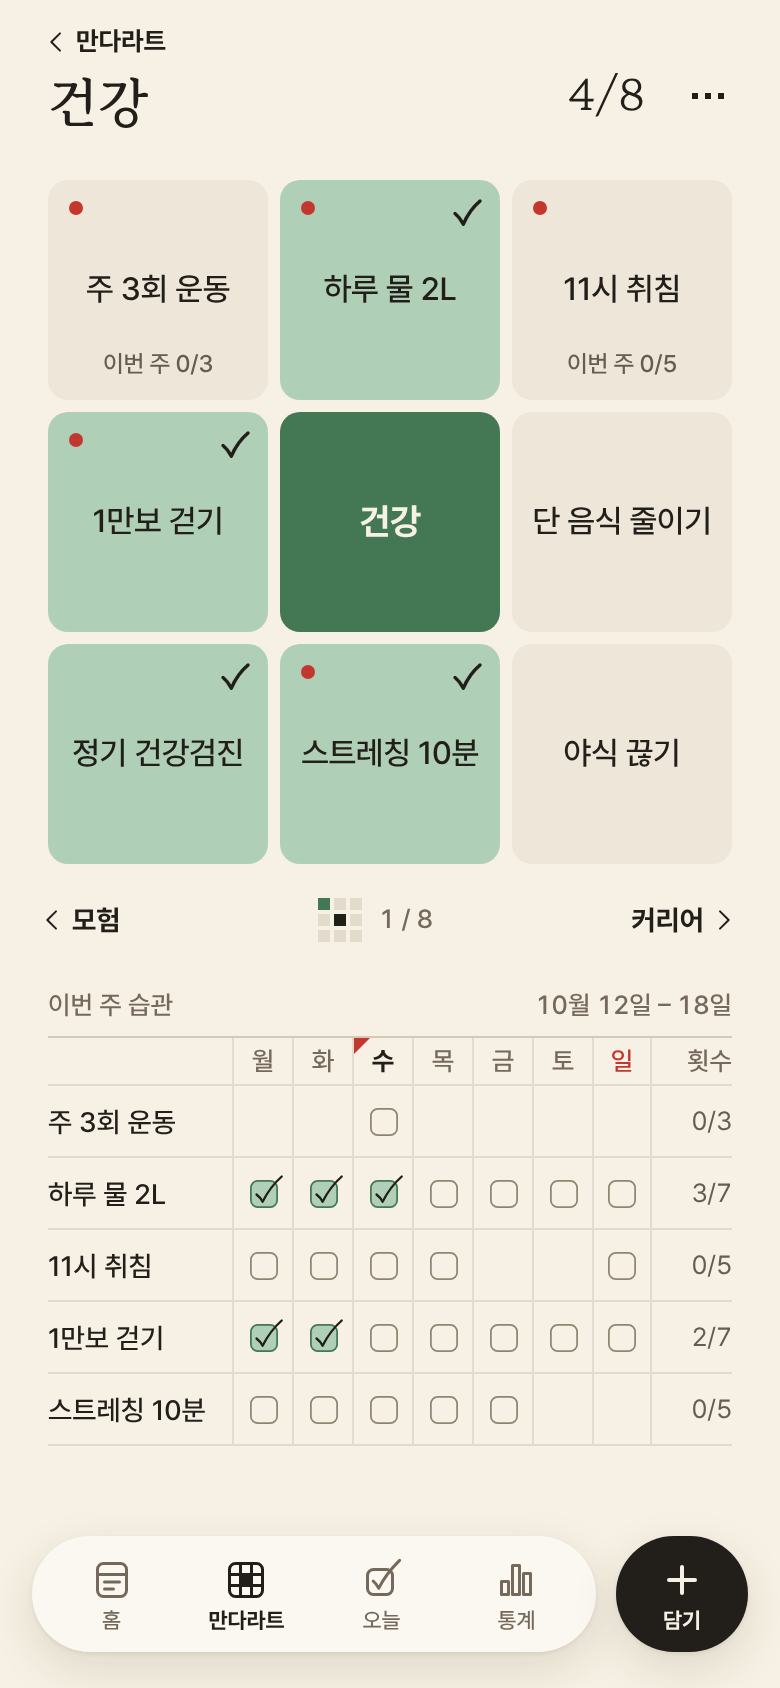
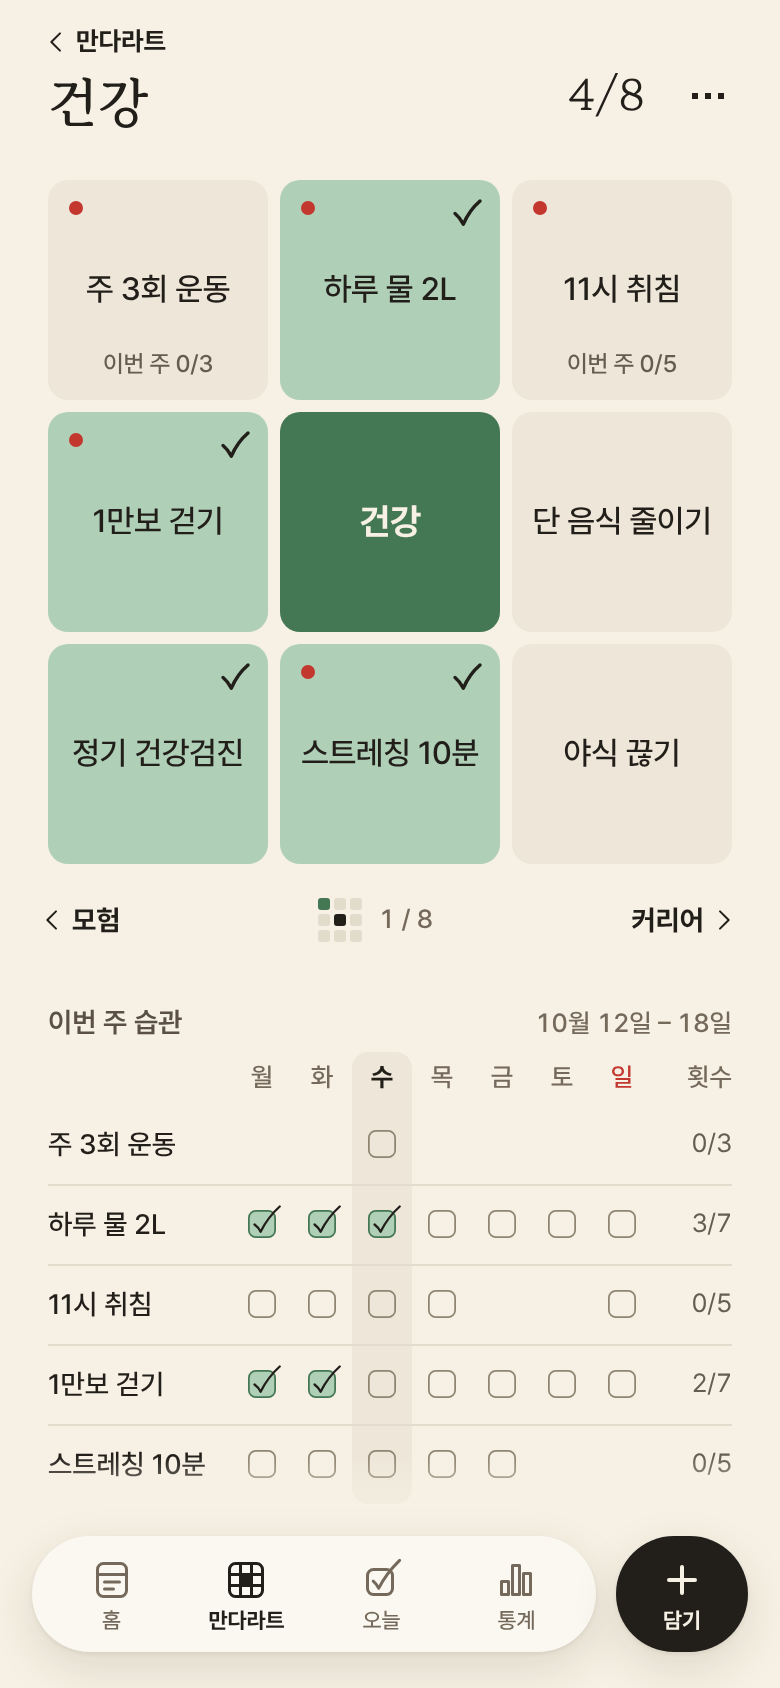
Design upgrade: soften Home, Today and the block tracker
No rules under the hero figures or on top of lists, plain section
names, and the block's week tracker without boxes, with today's column
as a soft tint.

Claude-Session: https://claude.ai/code/session_016yGBuAcG4VRj4TxWfirsD3

diff --git a/docs/design/mockups/a/block.html b/docs/design/mockups/a/block.html
@@ -20,20 +20,19 @@
   .pager-where { display: flex; align-items: center; gap: 8px; }
 
   /* the week tracker: booktabs. 1pt rule on top, hairlines under rows, no boxes round it. */
-  .sec { margin-top: 12px; }
-  .wk { border-top: var(--rule) solid var(--print-mid); }
-  .wk-row { display: grid; grid-template-columns: 1fr repeat(7, 30px) 40px; align-items: center; height: 36px; border-bottom: var(--hair) solid var(--print-rule); }
-  .wk-row.is-head { height: 24px; }
+  .sec { margin-top: 20px; }
+  .wk { }
+  .wk-row { position: relative; display: grid; grid-template-columns: 1fr repeat(7, 30px) 40px; align-items: center; height: 40px; }
+  .wk-row + .wk-row:not(.is-first)::before { content: ''; position: absolute; left: 0; right: 0; top: 0; height: var(--hair); background: var(--print-rule); }
+  .wk-row.is-head { height: 26px; }
   .wk-row > * { display: flex; justify-content: center; align-items: center; height: 100%; position: relative; }
   .wk-row > .wk-name { justify-content: flex-start; font: 500 14px/18px var(--sans); color: var(--ink); white-space: nowrap; }
   .wk-row > .wk-fig { justify-content: flex-end; font: 400 13px/18px var(--sans); color: var(--ink-2); font-variant-numeric: tabular-nums; }
   .wk-row.is-head .t-label { line-height: 24px; }
-  /* the seven days are printed cells, as in the week strip on Home: hairlines between them */
-  .wk-row > .wk-d { border-left: var(--hair) solid var(--print-rule); }
-  .wk-row > .wk-d.is-last { border-right: var(--hair) solid var(--print-rule); }
+  /* the seven days are columns, not boxes; today's column is a soft tint behind the boxes */
   .wk-day.is-sunday .t-label { color: var(--signal); }
   .wk-day.is-today .t-label { color: var(--ink); font-weight: 700; }
-  .wk-day.is-today::before { content: ''; position: absolute; left: 0; top: 0; width: 8px; height: 8px; background: var(--signal); clip-path: polygon(0 0, 100% 0, 0 100%); }
+  .wk-today-col { position: absolute; top: 0; bottom: 0; width: 30px; border-radius: 8px; background: var(--tile); }
   /* every planned day has a printed box (3.3:1); a box left empty before today is a missed day,
      one after today is still to come. Days not planned have no box. */
   .cell-state { text-align: center; }
@@ -52,7 +51,7 @@
     </div>
 
     <section class="sec">
-      <div class="a-section"><span class="t-label">이번 주 습관</span><span class="t-label" id="range"></span></div>
+      <div class="a-section"><span class="t-label is-section">이번 주 습관</span><span class="t-label" id="range"></span></div>
       <div class="wk" id="wk"></div>
     </section>
   </div>
@@ -95,7 +94,7 @@ A.ready().then((doc) => {
   for (let b = 0; b < 9; b++) {
     const x = (b % 3) * (u + gap), y = Math.floor(b / 3) * (u + gap);
     const fill = b === 4 ? 'var(--core)' : b === (AREA < 4 ? AREA : AREA + 1) ? `var(--dye-${AREA + 1})` : 'var(--print-rule)';
-    m += `<rect x="${x}" y="${y}" width="${u}" height="${u}" style="fill:${fill}"/>`;
+    m += `<rect x="${x}" y="${y}" width="${u}" height="${u}" rx="1.5" style="fill:${fill}"/>`;
   }
   document.querySelector('#where').innerHTML = `<svg width="22" height="22" viewBox="0 0 22 22" style="display:block" aria-hidden="true">${m}</svg><span class="t-label">1 / 8</span>`;
 
@@ -109,12 +108,22 @@ A.ready().then((doc) => {
     if (c === 'o') return A.check({ size: 14 });
     return '';
   };
-  area.actions.filter((a) => a.kind === 'habit').forEach((a) => {
+  area.actions.filter((a) => a.kind === 'habit').forEach((a, n) => {
     const s = weekOf[a.text];
     const t = a.perWeek ? { done: 0, planned: a.perWeek } : tally(s);
-    html += `<div class="wk-row"><span class="wk-name">${a.text}</span>${[...s].map((c, i) => `<span class="wk-d${i === 6 ? ' is-last' : ''}">${mark(c)}</span>`).join('')}<span class="wk-fig">${t.done}/${t.planned}</span></div>`;
+    html += `<div class="wk-row${n === 0 ? ' is-first' : ''}"><span class="wk-name">${a.text}</span>${[...s].map((c, i) => `<span class="wk-d${i === 6 ? ' is-last' : ''}">${mark(c)}</span>`).join('')}<span class="wk-fig">${t.done}/${t.planned}</span></div>`;
   });
-  document.querySelector('#wk').innerHTML = html;
+  const wk = document.querySelector('#wk');
+  wk.innerHTML = html;
+  // today's column: one soft tint from the weekday letter down through every row
+  const t = wk.querySelector('.wk-day.is-today');
+  if (t) {
+    wk.style.position = 'relative';
+    const col = document.createElement('div');
+    col.className = 'wk-today-col';
+    col.style.left = t.offsetLeft + 'px';
+    wk.prepend(col);
+  }
 
   A.tabBar('#bar', { active: 'chart' });
 });

diff --git a/docs/design/mockups/a/home-dark.html b/docs/design/mockups/a/home-dark.html
@@ -12,11 +12,12 @@
   /* The goal is the title (34pt, written ink); the date is only the folio line above it.
      Hero: three filled-in fields on the gutter and the sheet in miniature on the right. The fields'
      top rule and last hairline register with the thumbnail's frame. */
-  .hero-row { display: flex; gap: 24px; margin-top: 12px; }
-  .hero-fields { flex: 1; display: flex; flex-direction: column; border-top: var(--rule) solid var(--print-mid); }
-  .hero-field { flex: 1; display: flex; flex-direction: column; justify-content: center; border-bottom: var(--hair) solid var(--print-rule); }
-  .sec { margin-top: 18px; }
-  .hero-row + .sec { margin-top: 24px; }
+  .hero-row { display: flex; gap: 24px; margin-top: 18px; }
+  .hero-fields { flex: 1; display: flex; flex-direction: column; justify-content: space-between; padding: 2px 0; }
+  .hero-field { display: flex; flex-direction: column; gap: 2px; }
+  .sec { margin-top: 30px; }
+  .hero-row + .sec { margin-top: 32px; }
+  .sec .a-section { margin-bottom: 4px; }
 </style>
 </head>
 <body>
@@ -33,17 +34,17 @@
     </div>
 
     <section class="sec">
-      <div class="a-section"><span class="t-label">오늘 할 일</span><span class="a-link" id="all"></span></div>
+      <div class="a-section"><span class="t-label is-section">오늘 할 일</span><span class="a-link" id="all"></span></div>
       <div class="a-list" id="rows"></div>
     </section>
 
     <section class="sec">
-      <div class="a-section"><span class="t-label" id="week-label"></span><span class="t-meta" id="week-total" style="color:var(--ink)"></span></div>
+      <div class="a-section"><span class="t-label is-section" id="week-label"></span><span class="t-meta" id="week-total" style="color:var(--ink)"></span></div>
       <div id="week"></div>
     </section>
 
     <section class="sec">
-      <div class="a-section"><span class="t-label">8개 영역</span></div>
+      <div class="a-section"><span class="t-label is-section">8개 영역</span></div>
       <div id="ledger"></div>
     </section>
   </div>

diff --git a/docs/design/mockups/a/home.html b/docs/design/mockups/a/home.html
@@ -11,11 +11,12 @@
   /* The goal is the title (34pt, written ink); the date is only the folio line above it.
      Hero: three filled-in fields on the gutter and the sheet in miniature on the right. The fields'
      top rule and last hairline register with the thumbnail's frame. */
-  .hero-row { display: flex; gap: 24px; margin-top: 12px; }
-  .hero-fields { flex: 1; display: flex; flex-direction: column; border-top: var(--rule) solid var(--print-mid); }
-  .hero-field { flex: 1; display: flex; flex-direction: column; justify-content: center; border-bottom: var(--hair) solid var(--print-rule); }
-  .sec { margin-top: 18px; }
-  .hero-row + .sec { margin-top: 24px; }
+  .hero-row { display: flex; gap: 24px; margin-top: 18px; }
+  .hero-fields { flex: 1; display: flex; flex-direction: column; justify-content: space-between; padding: 2px 0; }
+  .hero-field { display: flex; flex-direction: column; gap: 2px; }
+  .sec { margin-top: 30px; }
+  .hero-row + .sec { margin-top: 32px; }
+  .sec .a-section { margin-bottom: 4px; }
 </style>
 </head>
 <body>
@@ -32,17 +33,17 @@
     </div>
 
     <section class="sec">
-      <div class="a-section"><span class="t-label">오늘 할 일</span><span class="a-link" id="all"></span></div>
+      <div class="a-section"><span class="t-label is-section">오늘 할 일</span><span class="a-link" id="all"></span></div>
       <div class="a-list" id="rows"></div>
     </section>
 
     <section class="sec">
-      <div class="a-section"><span class="t-label" id="week-label"></span><span class="t-meta" id="week-total" style="color:var(--ink)"></span></div>
+      <div class="a-section"><span class="t-label is-section" id="week-label"></span><span class="t-meta" id="week-total" style="color:var(--ink)"></span></div>
       <div id="week"></div>
     </section>
 
     <section class="sec">
-      <div class="a-section"><span class="t-label">8개 영역</span></div>
+      <div class="a-section"><span class="t-label is-section">8개 영역</span></div>
       <div id="ledger"></div>
     </section>
   </div>

diff --git a/docs/design/mockups/a/today.html b/docs/design/mockups/a/today.html
@@ -21,7 +21,7 @@
 
   .list { margin-top: 0; }
   /* the way to add more: a written link in the check box's column, never a dashed box */
-  .more { display: flex; align-items: center; gap: 12px; height: 48px; border-bottom: var(--hair) solid var(--print-rule); color: var(--ink); font: 600 14px/18px var(--sans); }
+  .more { display: flex; align-items: center; gap: 14px; height: 54px; margin-top: 6px; color: var(--ink); font: 600 15px/20px var(--sans); }
   .more .slot { width: 24px; display: flex; justify-content: center; }
 </style>
 </head>
